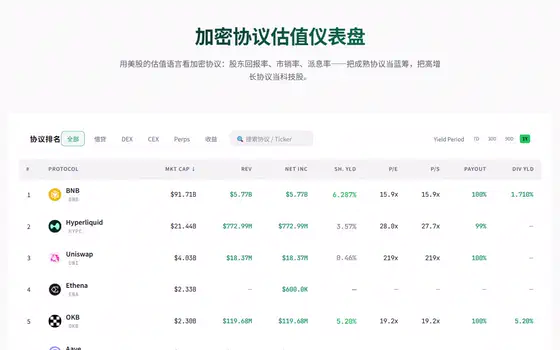
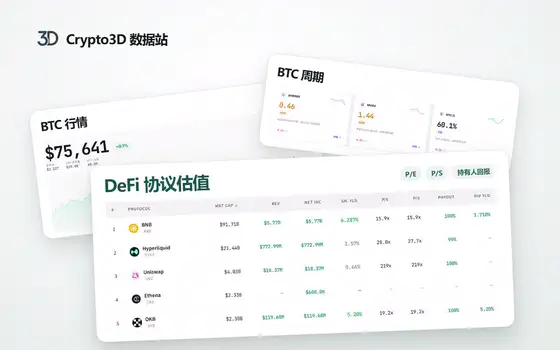
Remove the strategy lab and publish approved covers

diff --git a/src/App.jsx b/src/App.jsx
@@ -9,7 +9,7 @@ const xProfile = 'https://x.com/22333D';
 
 const projects = [
   {
-    id: 'channel', number: '01', name: '3D 加密频道', english: 'CRYPTO3D', category: 'CONTENT / FILM', image: galleryImage('channel.webp'),
+    id: 'channel', name: '3D 加密频道', english: 'CRYPTO3D', category: 'CONTENT / FILM', image: galleryImage('channel.webp'),
     title: '把复杂的世界，讲得明白一点。',
     lead: '我在 YouTube 用中文分享 DeFi、套利和链上策略，讲清楚机会从哪里来、风险在哪里。',
     story: '频道里有 Pendle 收益策略、JLP 套利和 Uniswap 代币机制等专题，也会做硬件钱包体验和投资研究。',
@@ -19,7 +19,7 @@ const projects = [
     link: 'https://www.youtube.com/@Crypto36D', linkLabel: '观看 YouTube 频道',
   },
   {
-    id: 'research', number: '02', name: 'Crypto3D 数据站', english: 'RESEARCH', category: 'RESEARCH / DATA', image: galleryImage('research.webp'),
+    id: 'research', name: 'Crypto3D 数据站', english: 'RESEARCH', category: 'RESEARCH / DATA', image: galleryImage('research.webp'),
     title: '给每一个判断，留下证据。',
     lead: '用数据看 DeFi 协议估值、BTC 市场周期和代币持有人回报。',
     story: '协议估值看板追踪回购、销毁和分红等机制，比较不同协议的 P/E、P/S 和持有人回报率。',
@@ -29,9 +29,9 @@ const projects = [
     link: 'https://crypto3d.pro/', linkLabel: '打开数据站',
   },
   {
-    id: 'mining', number: '03', name: '什么值得挖', english: 'OPPORTUNITY', category: 'DEFI / STRATEGY', image: galleryImage('mining.webp'),
+    id: 'mining', name: '什么值得挖', english: 'OPPORTUNITY', category: 'DEFI / STRATEGY', image: galleryImage('mining.webp'),
     title: '机会的背面，通常写着风险。',
-    lead: '「什么值得挖」关注链上收益机会，以及策略背后的风险。',
+    lead: '「什么值得挖」会展示不同的链上挖矿策略，拆解收益来源、主要风险和退出条件。',
     story: '分析链上收益时，我会先看资金从哪里来、补贴能持续多久，以及退出时有没有足够的流动性。',
     detail: '网站入口是「矿田」会员登录页，符合资格的会员可使用 Google 账号登录。',
     steps: ['区分真实利息、平台激励和一次性奖励。', '测试容量、流动性与极端情景下的退出条件。', '把收益率放回自己的风险预算，而非只追榜单。'],
@@ -39,7 +39,7 @@ const projects = [
     link: 'https://shenmezhidewa.com', linkLabel: '前往会员登录',
   },
   {
-    id: 'agi', number: '04', name: 'AGI / 通用人工智能', english: 'AGI', category: 'FUTURE / IDEAS', image: galleryImage('agi.webp'),
+    id: 'agi', name: 'AGI / 通用人工智能', english: 'AGI', category: 'FUTURE / IDEAS', image: galleryImage('agi.webp'),
     title: '当机器开始真正理解世界。',
     lead: '关于 AGI 何时到来、它能改变什么，以及我们该如何理解那些相互矛盾的预测。',
     story: 'AGI 是我长期追踪的重要命题之一。人们既兴奋，又焦虑；有人认为突破已经近在眼前，也有人提醒我们，模型的能力与真正通用的智能还有距离。',
@@ -48,7 +48,7 @@ const projects = [
     quote: '未来不是一个答案，而是一组等待验证的假设。', secondary: galleryImage('future.webp')
   },
   {
-    id: 'podcast', number: '05', name: '翻译播客', english: 'CONVERSATIONS', category: 'AUDIO / WORDS', image: galleryImage('podcast.webp'),
+    id: 'podcast', name: '翻译播客', english: 'CONVERSATIONS', category: 'AUDIO / WORDS', image: galleryImage('podcast.webp'),
     title: '让值得听见的想法，跨过语言。',
     lead: '那些有价值的观点，有时藏在一段两三个小时的英文对话里。',
     story: '我喜欢长对谈里缓慢展开的思考。科技、AI、投资，以及人如何做出艰难的选择，都是我感兴趣的话题。翻译播客想做的事情很简单：找到值得听的交流，让它们跨过语言的边界。',
@@ -57,7 +57,7 @@ const projects = [
     quote: '好的对谈，会让你改变提问题的方式。', secondary: galleryImage('agi.webp')
   },
   {
-    id: 'future', number: '06', name: 'Future Atlas 未来志', english: 'FUTURE ATLAS', category: 'FUTURE / EDITORIAL', image: galleryImage('future.webp'),
+    id: 'future', name: 'Future Atlas 未来志', english: 'FUTURE ATLAS', category: 'FUTURE / EDITORIAL', image: galleryImage('future.webp'),
     title: '给尚未到来的世界，画一张地图。',
     lead: '一座关于未来的私人展览馆：AGI、太空算力、可控核聚变与具身智能。',
     story: 'Future Atlas 是我正在制作的未来学项目。它连接重要人物对于 AI、能源、太空和机器人技术的观点，并把不同预测放到同一条时间轴上。',
@@ -66,16 +66,7 @@ const projects = [
     quote: '不是预测明天，而是理解明天为什么可能发生。', secondary: galleryImage('agi.webp')
   },
   {
-    id: 'strategy', number: '07', name: '链上策略实验室', english: 'THE LAB', category: 'EXPERIMENT / TOOLS', image: galleryImage('strategy.webp'),
-    title: '把好奇心变成可以运行的东西。',
-    lead: '从金融工具到自动化脚本，把一个想法做成可以检验的原型。',
-    story: '我对工具有一种几乎本能的兴趣。看见一个重复发生的问题，我就会想：能不能让机器帮我处理？能不能把凭感觉的判断变成可验证的流程？',
-    detail: '这些实验并不保证成功。有些会成为长期使用的工具，有些则因为成本、复杂度或者不可靠而被放弃。对我来说，真正的价值是把想法放到现实里接受测试。',
-    steps: ['提出清晰、足够小的可验证问题。', '给数据质量、安全边界和失败场景留出位置。', '能停下来、能复盘，才值得继续迭代。'],
-    quote: '想法很便宜，真正运行起来才有意思。', secondary: galleryImage('research.webp')
-  },
-  {
-    id: 'members', number: '08', name: '会员社区', english: 'INNER CIRCLE', category: 'COMMUNITY / LIVE', image: galleryImage('members.webp'),
+    id: 'members', name: '会员社区', english: 'INNER CIRCLE', category: 'COMMUNITY / LIVE', image: galleryImage('members.webp'),
     title: '在公开内容之外，聊得更深入。',
     lead: '与一群认真思考市场的人一起讨论、提问、分歧和修正。',
     story: '会员社区是一个围绕加密市场、链上项目和真实投资思考建立的小范围交流空间。这里会有定期直播，也会讨论我正在研究什么、为什么改变想法，以及哪些问题还没有答案。',
@@ -84,7 +75,7 @@ const projects = [
     quote: '观点不是用来供奉的，是用来碰撞的。', secondary: galleryImage('podcast.webp')
   },
   {
-    id: 'about', number: '09', name: '关于 3D', english: 'SANDY', category: 'ABOUT / LIFE', image: galleryImage('about.webp'),
+    id: 'about', name: '关于 3D', english: 'SANDY', category: 'ABOUT / LIFE', image: galleryImage('about.webp'),
     title: '认真玩，尽兴活。',
     lead: '我是 Sandy，也叫 3D。创作者、研究者，以及一个总想折腾点新东西的人。',
     story: '以前主要在加密世界里找机会、做研究、讲故事。现在好奇的东西越来越多：人工智能、未来科技、投资，还有那些值得花很多年去理解的问题。',
@@ -93,10 +84,12 @@ const projects = [
     quote: '游戏人生。认真玩，尽兴活。', secondary: galleryImage('channel.webp'),
     link: xProfile, linkLabel: '关注 X @22333D',
   },
-].map((project) => ({
+].map((project, index) => ({
   ...project,
+  number: String(index + 1).padStart(2, '0'),
   previewImage: `${import.meta.env.BASE_URL}gallery-lite/${project.id}.webp`,
 }));
+const projectCount = String(projects.length).padStart(2, '0');
 
 function CloseIcon() {
   return <svg width="25" height="25" viewBox="0 0 25 25" aria-hidden="true"><path d="M4 4L21 21M21 4L4 21" stroke="currentColor" strokeWidth="2.5" strokeLinecap="round"/></svg>;
@@ -143,7 +136,7 @@ export function App() {
       <div className="detail-scroll" ref={detailRef} key={active.id}>
         <article className="case-study">
           <header className="case-heading">
-            <span className="case-index">{active.number} / 09 — {active.category}</span>
+            <span className="case-index">{active.number} / {projectCount} — {active.category}</span>
             <h2>{active.name}</h2>
             <p className="case-lead">{active.lead}</p>
             {active.link && <a href={active.link} target="_blank" rel="noopener noreferrer" className="solid-link case-visit">{active.linkLabel} <span aria-hidden="true">↗</span></a>}
@@ -157,7 +150,7 @@ export function App() {
         </article>
       </div>
       <div className="detail-top"><button className="wordmark" onClick={close} type="button" aria-label="返回首页">3D <span> / works</span></button><button className="detail-close" type="button" onClick={close} aria-label="关闭项目详情"><CloseIcon /></button></div>
-      <div className="detail-pager" aria-label="切换项目"><span className="pager-label">{active.number} — 09</span><button type="button" onClick={() => { const i = projects.findIndex((p) => p.id === selected); open(projects[(i - 1 + projects.length) % projects.length].id); }} aria-label="上一个项目">←</button><button type="button" onClick={() => {const i = projects.findIndex((p) => p.id === selected); open(projects[(i + 1) % projects.length].id);}} aria-label="下一个项目">→</button></div>
+      <div className="detail-pager" aria-label="切换项目"><span className="pager-label">{active.number} — {projectCount}</span><button type="button" onClick={() => { const i = projects.findIndex((p) => p.id === selected); open(projects[(i - 1 + projects.length) % projects.length].id); }} aria-label="上一个项目">←</button><button type="button" onClick={() => {const i = projects.findIndex((p) => p.id === selected); open(projects[(i + 1) % projects.length].id);}} aria-label="下一个项目">→</button></div>
     </section>}
 
     {showContact && !active && <div className="contact-backdrop" onClick={() => setShowContact(false)} role="presentation"><section className="contact-modal" role="dialog" aria-modal="true" aria-label="联系方式" onClick={(event) => event.stopPropagation()}><button type="button" className="contact-close" onClick={() => setShowContact(false)} aria-label="关闭联系方式"><CloseIcon /></button><span className="eyebrow">HELLO THERE</span><h2>聊点有意思的。</h2><p>关于加密、科技、内容创作，或者你正在做的一件有趣的事。</p><a href={xProfile} rel="noopener noreferrer" target="_blank" className="solid-link">在 X 上找到我 @22333D <span aria-hidden="true">↗</span></a><button type="button" className="contact-about" onClick={() => open('about')}>先了解我 →</button></section></div>}

diff --git a/src/InfiniteGallery.jsx b/src/InfiniteGallery.jsx
@@ -1,5 +1,5 @@
 import { useCallback, useEffect, useRef, useState } from 'react';
-import { getGalleryLayout, normalizeOffset, projectIndexAt } from './infiniteCanvasMath.js';
+import { GALLERY_TILE_COLUMNS, GALLERY_TILE_ROWS, getGalleryLayout, normalizeOffset, projectIndexAt } from './infiniteCanvasMath.js';
 
 const COLUMNS = [-4, -3, -2, -1, 0, 1, 2, 3, 4];
 const ROWS = [-4, -3, -2, -1, 0, 1, 2, 3, 4];
@@ -30,8 +30,8 @@ export function InfiniteGallery({ projects, onOpen, visible, dismissed, introPla
   const panBy = useCallback((dx, dy) => {
     const { stepX, stepY } = layoutRef.current;
     const pan = panRef.current;
-    pan.x = normalizeOffset(pan.x + dx, stepX * 3);
-    pan.y = normalizeOffset(pan.y + dy, stepY * 3);
+    pan.x = normalizeOffset(pan.x + dx, stepX * GALLERY_TILE_COLUMNS);
+    pan.y = normalizeOffset(pan.y + dy, stepY * GALLERY_TILE_ROWS);
     draw();
   }, [draw]);
 
@@ -79,8 +79,8 @@ export function InfiniteGallery({ projects, onOpen, visible, dismissed, introPla
       const next = getGalleryLayout(window.innerWidth);
       layoutRef.current = next;
       const pan = panRef.current;
-      pan.x = normalizeOffset(pan.x, next.stepX * 3);
-      pan.y = normalizeOffset(pan.y, next.stepY * 3);
+      pan.x = normalizeOffset(pan.x, next.stepX * GALLERY_TILE_COLUMNS);
+      pan.y = normalizeOffset(pan.y, next.stepY * GALLERY_TILE_ROWS);
       setLayout(next);
       draw();
     };
@@ -192,7 +192,7 @@ export function InfiniteGallery({ projects, onOpen, visible, dismissed, introPla
       {ROWS.flatMap((row) => COLUMNS.map((column) => {
         const index = projectIndexAt(row, column, layout.mobile);
         const project = projects[index];
-        const centralTile = row >= 0 && row <= 2 && column >= -1 && column <= 1;
+        const centralTile = row >= 0 && row < GALLERY_TILE_ROWS && column >= -1 && column < GALLERY_TILE_COLUMNS - 1;
         const nearViewport = Math.abs(row) <= 2 && Math.abs(column) <= 2;
         return <button
           type="button"

diff --git a/src/infiniteCanvasMath.js b/src/infiniteCanvasMath.js
@@ -1,11 +1,12 @@
 const clamp = (value, min, max) => Math.min(max, Math.max(min, value));
+export const GALLERY_TILE_COLUMNS = 4;
+export const GALLERY_TILE_ROWS = 2;
 
 export function positiveModulo(value, modulus) {
   return ((value % modulus) + modulus) % modulus;
 }
 
-// Keep the camera within one repeated three-column/three-row tile. Because
-// artwork repeats every three cells, the wrap is visually indistinguishable.
+// Keep the camera within one repeated tile so the wrap is visually indistinguishable.
 export function normalizeOffset(value, period) {
   if (!Number.isFinite(value) || !Number.isFinite(period) || period <= 0) return 0;
   return positiveModulo(value + period / 2, period) - period / 2;
@@ -13,7 +14,8 @@ export function normalizeOffset(value, period) {
 
 export function projectIndexAt(row, column, mobile = false) {
   const columnOffset = mobile ? 0 : 1;
-  return positiveModulo(row, 3) * 3 + positiveModulo(column + columnOffset, 3);
+  return positiveModulo(row, GALLERY_TILE_ROWS) * GALLERY_TILE_COLUMNS +
+    positiveModulo(column + columnOffset, GALLERY_TILE_COLUMNS);
 }
 
 export function getGalleryLayout(viewportWidth) {

diff --git a/src/galleryIntroConfig.js b/src/galleryIntroConfig.js
@@ -1,8 +1,7 @@
 export const FLIGHT_DURATION_MS = 860;
-export const FLIGHT_STAGGER_MS = 230;
+export const INTRO_DURATION_MS = 2700;
 
-// The alternating diagonals make a fast editorial flip-through, rather than
-// nine cards moving down the same line. Distances are viewport-relative.
+// Alternating diagonals give the opening its rhythm. Distances are viewport-relative.
 export const FLIGHT_PATHS = [
   [-84, -28, -7, -13, 92, 25, -10, 7],
   [86, 23, 9, 9, -91, -27, 9, -8],
@@ -12,11 +11,9 @@ export const FLIGHT_PATHS = [
   [82, 29, 8, 14, -92, -30, 8, -8],
   [-84, 19, -7, -5, 85, -16, -9, 7],
   [88, -30, 6, 8, -87, 24, 10, -8],
-  [-79, 25, 1, -2, 91, -25, -7, 9],
 ];
 
 export function flightDelayAt(index) {
-  return index * FLIGHT_STAGGER_MS;
+  const lastStart = INTRO_DURATION_MS - FLIGHT_DURATION_MS;
+  return Math.round(index * lastStart / (FLIGHT_PATHS.length - 1));
 }
-
-export const INTRO_DURATION_MS = flightDelayAt(FLIGHT_PATHS.length - 1) + FLIGHT_DURATION_MS;

diff --git a/index.html b/index.html
@@ -11,7 +11,6 @@
     <link rel="preload" as="image" href="%BASE_URL%gallery-lite/agi.webp" fetchpriority="low" />
     <link rel="preload" as="image" href="%BASE_URL%gallery-lite/podcast.webp" fetchpriority="low" />
     <link rel="preload" as="image" href="%BASE_URL%gallery-lite/future.webp" fetchpriority="low" />
-    <link rel="preload" as="image" href="%BASE_URL%gallery-lite/strategy.webp" fetchpriority="low" />
     <link rel="preload" as="image" href="%BASE_URL%gallery-lite/members.webp" fetchpriority="low" />
     <link rel="preload" as="image" href="%BASE_URL%gallery-lite/about.webp" fetchpriority="low" />
     <title>3D · Sandy — 项目与作品</title>

diff --git a/src/styles.css b/src/styles.css
@@ -54,7 +54,6 @@ button:focus-visible,a:focus-visible{outline:2px solid #6c54d8;outline-offset:4p
 .art-agi img{width:75%;max-height:67%}
 .art-podcast img{width:76%;max-height:72%}
 .art-future img{width:69%;max-height:72%}
-.art-strategy img{width:74%;max-height:72%}
 .art-members img{width:82%;max-height:71%}
 .art-about img{width:74%;max-height:72%}
 .art-overlay{position:absolute;inset:auto 20px 19px;display:flex;align-items:flex-end;justify-content:space-between;gap:8px;color:#343840;opacity:0;transform:translateY(6px);transition:opacity .22s ease,transform .22s ease;pointer-events:none}

diff --git a/src/BusinessOverview.jsx b/src/BusinessOverview.jsx
@@ -3,7 +3,7 @@ import { useState } from 'react';
 // These are presentation groups, not claims that each entry is an independent company.
 const SECTIONS = [
   { id: 'business', number: '01', name: '业务', ids: ['channel', 'members'] },
-  { id: 'research', number: '02', name: '研究', ids: ['research', 'mining', 'strategy'] },
+  { id: 'research', number: '02', name: '研究', ids: ['research', 'mining'] },
   { id: 'future', number: '03', name: '探索', ids: ['future', 'agi', 'podcast'] },
 ];
 

diff --git a/AGENTS.md b/AGENTS.md
@@ -3,14 +3,14 @@
 ## Ambient infinite canvas homepage (latest user direction, 2026-11-08)
 
 - This directory is a separate **Demo** copied from the original Crypto3D gallery Site; do not change or publish over the original Site.
-- Preserve all nine existing image assets, the 2.7-second real-project cinematic opening, the fast long-form case studies, and the mathematically seamless two-dimensional canvas.
-- After the cinematic opening, show **one homepage**: an editorial project directory with three terse groups (业务、研究、探索), eight projects, and a standalone 关于 3D entry. Never equate nine tiles with nine independent businesses.
-- Reveal the complete homepage during the ninth cover's exit. Keep the directory and its ambient background in the same reveal, with no standalone canvas or pause between the opening and the homepage.
+- Preserve the eight approved covers, the 2.7-second cinematic opening, the fast long-form case studies, and the mathematically seamless two-dimensional canvas.
+- After the cinematic opening, show **one homepage**: an editorial project directory with three terse groups (业务、研究、探索), seven projects, and a standalone 关于 3D entry.
+- Reveal the complete homepage during the last cover's exit. Keep the directory and its ambient background in the same reveal, with no standalone canvas or pause between the opening and the homepage.
 - The user selected the original 2.7-second opening after reviewing the filmstrip and fast sweep previews. Use the original alternating cover paths for the live opening.
 - Use lightweight covers in the opening, ambient canvas, and homepage preview. Prioritize the first cover and keep the original full-resolution artwork in project details.
 - Use the supplied public destinations for the YouTube channel, Crypto3D 数据站, 什么值得挖, and X. Identify 什么值得挖 as a member sign-in entry when linking to its public landing page.
-- Use cropped screenshots of the actual public interfaces for the three business covers. Center recognizable interface content and crop out the channel avatar or the site's standalone mark. Use the public sign-in screen for 什么值得挖 when member content is unavailable.
-- The user no longer wants a separate infinite-canvas browsing mode. Reuse the nine-image infinite field **only as a gently, continuously moving ambient background** under a tasteful transparent/frosted-glass directory. No duplicate canvas entry CTA, mode toggle, or independent gallery interaction.
+- Use the approved covers for 3D 加密频道 (YouTube mark and layered video thumbnails), 会员社区 (silver community card), Crypto3D 数据站 (layered interface screenshots), and 什么值得挖 (mining strategy sheets).
+- Reuse the eight-image infinite field **only as a gently, continuously moving ambient background** under a tasteful transparent/frosted-glass directory. No duplicate canvas entry CTA, mode toggle, or independent gallery interaction.
 - The background must not intercept foreground interactions, should pause behind a detailed story, and must stop moving for visitors who prefer reduced motion. Returning from a project must not replay the cinematic opening.
 - Favor refined light editorial typography, existing original artwork, restrained translucency, strong text contrast, and satisfying motion; no decorative sphere or unrelated floating object.
 - **Naming and copy update:** Never surface the user's real name anywhere in the Site (page copy, metadata, quotes, details, or footer). Public shorthand and signature: **3D**. Full alias: **Sandy**. Remove decorative text counters and repetitive labels such as 个人档案, 研究与新项目, and bilingual metadata in the overview. Let the project list itself explain the breadth.
@@ -20,10 +20,10 @@
 - Primary visual reference: the **expanded portfolio grid/gallery** visible in the user's attached screenshot of `https://angelo.so/`, not its initial home sphere.
 - The user explicitly **does not want any spheres, floating balls, orbit/concentric navigation, or globe gimmicks**. All former orb navigation/assets must be absent from the rendered UI.
 - Home must load directly into a generous white editorial project gallery: a big, three-column partially edge-clipped grid of pale-gray rounded rectangular mats, oversized white gutters, refined distinct design imagery centered inside mats, small fixed footer signature/social/contact, and a small top-right close control. Source image: `/workspace/scratch/16a5064905ba/upload/image(20261107-203922).png`.
-- **2026-11-08 update:** The finite set of nine gallery projects must feel like an **infinite two-dimensional canvas**. Preserve the Angelo-style large white gallery cards exactly, but allow free mouse/touch dragging in any direction, smooth wheel navigation (including horizontal trackpads), subtle inertia, and mathematically seamless wraparound in both axes. The same nine artworks repeat, with no visible canvas edges or jumps; do not introduce extra decorative objects. Distinguish a drag from a click to enter the **fast**, scrollable long-form case study; close returns to the same pan position. Preserve enough room for text; no side drawer.
-- **2026-11-08 cinematic opening:** On first page entry, play a brisk **2–3 second** sequence in which **all nine real project cards** whip by the viewer with dynamic motion blur. The last card transitions directly into the directory homepage with its ambient canvas. Use the existing nine cover assets, **not** spheres, decorative shapes, generic glass art, or extra cards. Respect reduced-motion preferences and let visitor input skip the intro immediately.
+- **Infinite canvas:** The eight covers repeat with mathematically seamless wraparound in both axes. Preserve the scale, white mats, and gutters of the Angelo-style cards under the directory.
+- **Cinematic opening:** On first page entry, play the 2.7-second sequence of all eight approved covers with dynamic motion blur. The last card transitions directly into the directory homepage with its ambient canvas. Respect reduced-motion preferences and let visitor input skip the intro immediately.
 - Art direction: premium Apple-like minimal restraint and craft, *not* a generic glassmorphism UI, excessive effects or prefab template. Original artwork has vibrancy; gallery and detail chrome stay almost-white.
-- Projects and works: 3D 加密频道, Crypto3D Research, 什么值得挖, AGI, 翻译播客, Future Atlas 未来志, 链上策略实验室, 会员社区, 关于 3D. Core six retained; extra tiles lead into existing focus areas.
+- Projects and works: 3D 加密频道, 会员社区, Crypto3D 数据站, 什么值得挖, AGI / 通用人工智能, 翻译播客, Future Atlas 未来志, and 关于 3D.
 - User repeatedly called previous examples too generic/ugly. Fidelity to the attached gallery screenshot outweighs reintroducing novelty not present in the reference.
 
 Run the local server yourself and open the preview in the browser available to this environment. Do not give the user server-start instructions when you can run it.
